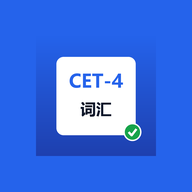
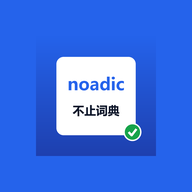
项目改名 CET-4 词汇引擎 → noadic（not only a dictionary / 不止词典）
品牌：包名 com.noadic.app、存储键 noadic.v1、SW 缓存 noadic-v1、图标字标重画（小尺寸改用字母 n 标，32px 下字标会糊）、SVG 与浅色主题统一、apple-touch-icon 指回 PNG（iOS 不认 SVG）。
备份文件仍认旧 app 标识 cet4-engine；存储键不做旧键迁移（改名前未正式使用，不留永不执行的搬运代码）。
工具链：_tools/rename-sweep.ps1 有序映射表；联接路径 D:cet4-build → D:noadic-build（含 git 本地 sslCAInfo/credential.helper 与 android/gradle.properties）；测试新增 Y 段 10 条，共 221 条。

Changed region(s): [[0.3438, 0.375, 0.6562, 0.5], [0.375, 0.5312, 0.625, 0.625]]

diff --git a/www/js/store.js b/www/js/store.js
@@ -3,8 +3,12 @@
  * 纯本地离线：无服务器、无账号、无网络请求（AI 增强为用户主动触发）
  * ========================================================================= */
 const Store = (() => {
-  const KEY = "cet4.engine.v1";
-  const UNDO_KEY = "cet4.engine.undo";
+  const KEY = "noadic.v1";
+  const UNDO_KEY = "noadic.undo";
+  /* 备份文件的应用标识：改名（CET-4 词汇引擎 → noadic）前导出的 json 照样认得进来。
+   * 存储键本身没有做旧键迁移 —— 改名时还没有正式使用过任何数据，留一段永远不会跑的
+   * 搬运代码只是负担。 */
+  const APP_IDS = ["noadic", "cet4-engine"];
 
   const DEFAULT_SETTINGS = {
     daily: 20,
@@ -437,8 +441,12 @@ const Store = (() => {
   }
 
   /* ---------- 导入导出 ---------- */
+  /** 是不是本应用的备份文件（而不是随手抓的 JSON）。老名字的备份照样认。 */
+  function isBackup(obj) {
+    return !!obj && APP_IDS.indexOf(obj.app) >= 0 && Array.isArray(obj.words);
+  }
   function exportJSON() {
-    return JSON.stringify({ app: "cet4-engine", version: 1, exportedAt: new Date().toISOString(), settings: state.settings, words: state.words }, null, 2);
+    return JSON.stringify({ app: "noadic", version: 1, exportedAt: new Date().toISOString(), settings: state.settings, words: state.words }, null, 2);
   }
   function importJSON(text) {
     const p = JSON.parse(text);
@@ -468,7 +476,7 @@ const Store = (() => {
     load, save, rebuild, indexContext, byId, stats, units, unitStats, unitKey, wordsOf, unitOrder, seed, backfill, plan, addAll, commitPlan,
     unitFlags, blockFlags, blockStats, blocks, blockKey, inBlock, wordsOfBlock, resetBlock,
     currentUnit, currentBlock, syncCleared, allCleared, inUnit, gateMet, unclear, resetUnit, labelOrder,
-    snapshot, undo, canUndo, update, remove, scopeWords, scopeStats, removeScope, inScope, setSetting, exportJSON, importJSON, wipe, usage,
+    snapshot, undo, canUndo, update, remove, scopeWords, scopeStats, removeScope, inScope, setSetting, exportJSON, importJSON, isBackup, wipe, usage,
     DEFAULT_SETTINGS,
   };
 })();

diff --git a/www/index.html b/www/index.html
@@ -8,21 +8,22 @@
 <meta name="mobile-web-app-capable" content="yes">
 <meta name="apple-mobile-web-app-capable" content="yes">
 <meta name="apple-mobile-web-app-status-bar-style" content="default">
-<meta name="apple-mobile-web-app-title" content="CET-4 词汇">
+<meta name="apple-mobile-web-app-title" content="noadic">
 <meta name="format-detection" content="telephone=no">
-<title>CET-4 词汇引擎 · 录入 / 考核 / 错题闭环</title>
+<title>noadic · 录入 / 考核 / 错题闭环</title>
 <link rel="manifest" href="manifest.webmanifest">
 <link rel="icon" href="icon.svg" type="image/svg+xml">
-<link rel="apple-touch-icon" href="icon.svg">
+<link rel="alternate icon" href="favicon-32.png">
+<link rel="apple-touch-icon" href="apple-touch-icon.png"><!-- iOS 只认 PNG，指 SVG 是无效的 -->
 <link rel="stylesheet" href="css/app.css">
 </head>
 <body>
 
 <header class="topbar">
   <div class="brand">
-    <span class="brand-mark">CET-4</span>
+    <span class="brand-mark">noadic</span>
     <div class="brand-txt">
-      <strong>词汇引擎</strong>
+      <strong>不止词典</strong>
       <small id="lib-summary">词库加载中…</small>
     </div>
   </div>

diff --git a/www/js/app.js b/www/js/app.js
@@ -108,7 +108,7 @@ const app = (() => {
       if (/\.json$/i.test(f.name)) {
         const txt = await f.text();
         const head = JSON.parse(txt.slice(0, 4000));
-        if (head && head.app === "cet4-engine") {
+        if (Store.isBackup(head)) {          // 认 app 字段，改名前的旧备份（cet4-engine）也收
           const r = Store.importJSON(txt);
           UI.renderProgress(); UI.renderLibrary(); UI.renderScope();
           return UI.toast(`备份已合并导入：新增 ${r.added}、合并 ${r.merged}、重复 ${r.dup}`);
@@ -470,7 +470,7 @@ const app = (() => {
       const blob = new Blob([Store.exportJSON()], { type: "application/json" });
       const a = document.createElement("a");
       a.href = URL.createObjectURL(blob);
-      a.download = `cet4-词库备份-${new Date().toISOString().slice(0, 10)}.json`;
+      a.download = `noadic-备份-${new Date().toISOString().slice(0, 10)}.json`;
       a.click(); setTimeout(() => URL.revokeObjectURL(a.href), 4000);
     };
     $("#btn-import").onchange = onFile;

diff --git a/www/js/ai.js b/www/js/ai.js
@@ -9,7 +9,7 @@ const AI = (() => {
   const available = () => !!(cfg().baseURL && cfg().baseURL.trim() && cfg().key && cfg().key.trim());
 
   const SPEC = [
-    "你是 CET-4 词汇录入引擎（Mode 1）。必须且仅能输出纯 JSON 字符串，禁止 Markdown 代码块、禁止任何解释文字。",
+    "你是 noadic录入引擎（Mode 1）。必须且仅能输出纯 JSON 字符串，禁止 Markdown 代码块、禁止任何解释文字。",
     "规则：1) 过滤 a/the/is/at 等极简词，但保留其作为核心短语一部分的词；2) 单词统一还原英文原形(Lemma)；",
     "3) 每个词补齐 英式IPA、CET-4 核心考点释义、常见搭配、1 个四级难度例句（含译文）；",
     "4) 若用户已给出中文释义，以用户释义为准，只做补全不得改写；5) 若没有需要收录的词，words 返回空数组且 has_words 为 false。",

diff --git a/www/css/app.css b/www/css/app.css
@@ -31,8 +31,10 @@ a { color: var(--acc); }
 }
 .brand { display: flex; align-items: center; gap: 10px; min-width: 0; }
 .brand-mark {
-  font: 700 11px/1 ui-monospace, monospace; letter-spacing: .03em; color: #fff;
-  background: linear-gradient(135deg, var(--acc), #4f46e5); padding: 7px 8px; border-radius: 9px; white-space: nowrap;
+  /* 字标从 "CET-4"（5 字符，等宽好看）换成 "noadic"（小写单词），
+     等宽字体里的小写单词很怪，改用正文字重强调 */
+  font: 800 12.5px/1 system-ui, -apple-system, "Segoe UI", sans-serif; letter-spacing: .01em; color: #fff;
+  background: linear-gradient(135deg, var(--acc), #4f46e5); padding: 6px 9px; border-radius: 9px; white-space: nowrap;
 }
 .brand-txt { display: flex; flex-direction: column; min-width: 0; }
 .brand-txt strong { font-size: 14.5px; }

diff --git a/www/sw.js b/www/sw.js
@@ -1,6 +1,6 @@
 /* sw.js — 手机/离线挂载点（仅在 http(s) 下生效；file:// 打开时不注册）
  * 更新版本改 APP_VERSION，老缓存会被清掉。 */
-const APP_VERSION = "cet4-engine-v2";   // 批量删除（整课/整单元）+ 词库工具栏改动：抬版本清老缓存
+const APP_VERSION = "noadic-v1";   // 改名 noadic + 三级批量删除：抬版本清老缓存
 const SHELL = [
   "./", "./index.html", "./css/app.css", "./manifest.webmanifest", "./icon.svg",
   "./js/seed-words.js", "./js/lexicon.js", "./js/dict-extra.js", "./js/store.js",

diff --git a/_tools/make-icons.py b/_tools/make-icons.py
@@ -32,7 +32,9 @@ def rounded(draw, box, r, fill):
     draw.rounded_rectangle([x0, y0, x1, y1], radius=r, fill=fill)
 
 
-def icon(size=1024):
+def icon(size=1024, mark=False):
+    """mark=True：只画字母标 "n"。16–48px 的 favicon 上，缩小的字标会糊成一团
+    （实测 32px 完全不可读），单字母在那个尺寸才站得住。"""
     img = Image.new("RGB", (size, size), ACCENT)
     d = ImageDraw.Draw(img)
     # 纵向渐变底（干净、无条纹）
@@ -42,19 +44,21 @@ def icon(size=1024):
         d.line([(0, y), (size, y)], fill=col)
     d = ImageDraw.Draw(img)
 
-    m = size * 0.17                      # 安全边距（自适应图标会被裁切）
+    m = size * 0.17 if not mark else size * 0.13   # 安全边距（自适应图标会被裁切）
     card = (m, m * 1.02, size - m, size - m * 1.02)
     rounded(d, card, int(size * 0.06), WHITE)
 
-    # 卡片上的文字：CET-4 + 词汇
-    f_big = font(int(size * 0.155))
-    f_sm = font(int(size * 0.13))
-    d.text(((card[0] + card[2]) / 2, card[1] + (card[3] - card[1]) * 0.30), "CET-4",
-           font=f_big, fill=ACCENT, anchor="mm")
-    d.text(((card[0] + card[2]) / 2, card[1] + (card[3] - card[1]) * 0.66), "词汇",
-           font=f_sm, fill=INK, anchor="mm")
+    if mark:
+        d.text(((card[0] + card[2]) / 2, (card[1] + card[3]) / 2 - size * 0.01), "n",
+               font=font(int(size * 0.52)), fill=ACCENT, anchor="mm")
+    else:
+        # 卡片上的字标：noadic（大字）+ 不止词典（小字）
+        d.text(((card[0] + card[2]) / 2, card[1] + (card[3] - card[1]) * 0.34), "noadic",
+               font=font(int(size * 0.142)), fill=ACCENT, anchor="mm")
+        d.text(((card[0] + card[2]) / 2, card[1] + (card[3] - card[1]) * 0.68), "不止词典",
+               font=font(int(size * 0.098)), fill=INK, anchor="mm")
     # 右下角绿色完成标记
-    r = size * 0.075
+    r = size * (0.095 if mark else 0.075)
     cx, cy = size - m - r * 0.35, card[3] - r * 0.35
     d.ellipse([cx - r, cy - r, cx + r, cy + r], fill=GREEN, outline=WHITE, width=int(size * 0.012))
     d.line([(cx - r * 0.42, cy), (cx - r * 0.08, cy + r * 0.36), (cx + r * 0.45, cy - r * 0.34)],
@@ -73,19 +77,21 @@ def splash(size=2732):
 os.makedirs(os.path.join(ROOT, "assets"), exist_ok=True)
 os.makedirs(os.path.join(ROOT, "www"), exist_ok=True)
 
-icon_1024 = icon(1024)
-icon_1024.save(os.path.join(ROOT, "assets", "icon.png"))
+big = icon(1024)
+big.save(os.path.join(ROOT, "assets", "icon.png"))          # APK 图标源图（CI 由它生成 mipmap）
 splash(2732).save(os.path.join(ROOT, "assets", "splash.png"))
-for s, name in [(512, "icon-512.png"), (192, "icon-192.png"), (180, "apple-touch-icon.png"), (32, "favicon-32.png")]:
-    icon_1024.resize((s, s), Image.LANCZOS).save(os.path.join(ROOT, "www", name))
+# 每个尺寸单独绘制，而不是从 1024 缩：缩放会把字边糊掉
+for s, name in [(512, "icon-512.png"), (192, "icon-192.png"), (180, "apple-touch-icon.png")]:
+    icon(s).save(os.path.join(ROOT, "www", name))
+icon(32, mark=True).save(os.path.join(ROOT, "www", "favicon-32.png"))   # 小尺寸用字母标
 
 # maskable 版：内容缩到 60%，四周留安全区
 mask = Image.new("RGB", (1024, 1024), ACCENT)
-inner = icon_1024.resize((640, 640), Image.LANCZOS)
+inner = big.resize((640, 640), Image.LANCZOS)
 mask.paste(inner, (192, 192))
 mask.resize((512, 512), Image.LANCZOS).save(os.path.join(ROOT, "www", "icon-maskable-512.png"))
 mask.resize((192, 192), Image.LANCZOS).save(os.path.join(ROOT, "www", "icon-maskable-192.png"))
-icon_1024.resize((512, 512), Image.LANCZOS).save(os.path.join(ROOT, "www", "icon-512.png"))
+# （旧版这里还有一行从 1024 缩放写 icon-512.png 的残留，已被上面的逐尺寸绘制取代）
 
 print("assets:", sorted(os.listdir(os.path.join(ROOT, "assets"))))
 print("www pngs:", sorted(f for f in os.listdir(os.path.join(ROOT, "www")) if f.endswith(".png")))

diff --git a/README.md b/README.md
@@ -1,4 +1,4 @@
-# CET-4 词汇引擎（浅色 App 界面 · 纯本地离线 · 可封 APK）
+# noadic（浅色 App 界面 · 纯本地离线 · 可封 APK）
 
 零构建、零依赖、零服务器：双击 `www/index.html` 即可运行，所有数据存在浏览器 `localStorage`。白色主题、底部导航栏、设置以底部面板呈现，按手机 App 的形态设计；同一套代码可用 Capacitor 封成 APK（见 `BUILD-APK.md`）。
 
@@ -22,7 +22,7 @@
 │       ├── ui.js               渲染层
 │       └── app.js              装配与事件流
 ├── assets/icon.png, splash.png   APK 图标与开屏图源图（1024 / 2732）
-├── capacitor.config.json   appId com.cet4.vocabengine、webDir www、白色启动背景
+├── capacitor.config.json   appId com.noadic.app、webDir www、白色启动背景
 ├── package.json            Capacitor 依赖与脚本
 ├── build-apk.ps1           本机一键出包（先检查 JDK/SDK，缺什么直说缺什么）
 ├── .github/workflows/android.yml   云构建：push 即出 app-debug.apk 产物
@@ -226,13 +226,13 @@ Git 装在 `.tooling\git`，**没有写进系统 PATH、不需要管理员权限
 这台机器直连 `github.com:443` 是被拒的，必须走本地代理；而 git 有两个坑：
 
 1. **git 不读 Windows 系统代理**（IE/注册表里那个 `127.0.0.1:10808` 它不认），得显式配 `http.proxy`；
-2. **openssl 后端的 CA 证书包路径含中文会被毁码**（`新建文件夹` → `??½??ļ???`），报 `error adding trust anchors`。解法是把 `http.sslCAInfo` 指到 ASCII 联接路径 `D:/cet4-build/...`。
+2. **openssl 后端的 CA 证书包路径含中文会被毁码**（`新建文件夹` → `??½??ļ???`），报 `error adding trust anchors`。解法是把 `http.sslCAInfo` 指到 ASCII 联接路径 `D:/noadic-build/...`。
 
 两条已经写进本仓库的 `.git/config`（local，不影响其它项目），实测 `git ls-remote https://github.com/git/git` 正常返回。**前提是代理客户端在线**（脚本会先探测 `127.0.0.1:10808`）。
 
 ### 你要做的三步
 
-1. **建空仓库**：GitHub 网页 → New repository → 名字随意（建议 `cet4-vocab`）→ **公开/私有都行**（本仓库只有代码和种子词表，你的学习记录、错题本全在设备 localStorage 里，不会进仓库）→ **不要**勾选 "Add a README" / ".gitignore" / "license"（会让首次推送冲突）。记下 `用户名/仓库名`。
+1. **建空仓库**：GitHub 网页 → New repository → 名字随意（建议 `noadic`）→ **公开/私有都行**（本仓库只有代码和种子词表，你的学习记录、错题本全在设备 localStorage 里，不会进仓库）→ **不要**勾选 "Add a README" / ".gitignore" / "license"（会让首次推送冲突）。记下 `用户名/仓库名`。
 2. **建 token**：Settings → Developer settings → **Fine-grained tokens** → Generate new token
    - Repository access：Only select repositories → 选刚才那个仓库（或直接 All repositories）
    - Permissions → Contents：**Read and write**
@@ -243,12 +243,12 @@ Git 装在 `.tooling\git`，**没有写进系统 PATH、不需要管理员权限
 
 ```powershell
 cd "D:\Users\DawnFish\Desktop\新建文件夹"
-.\connect-github.ps1 -Repo 你的用户名/cet4-vocab
+.\connect-github.ps1 -Repo 你的用户名/noadic
 ```
 
 脚本会提示粘 token（**不回显**），只写进 `.tooling\git-credentials`（`.gitignore` 已排除，不会进仓库），然后加 `origin` 并推 `main`。
 
-推成功后打开 **`https://github.com/你的用户名/cet4-vocab/actions`** —— 仓库里现成的 workflow 会自动构建（约 90 秒），构建完**直接发布到 Release**，不用再去 Artifacts 里翻 zip。
+推成功后打开 **`https://github.com/你的用户名/noadic/actions`** —— 仓库里现成的 workflow 会自动构建（约 90 秒），构建完**直接发布到 Release**，不用再去 Artifacts 里翻 zip。
 
 ### APK 从哪下（两条都自动）
 
@@ -256,13 +256,13 @@ cd "D:\Users\DawnFish\Desktop\新建文件夹"
 | --- | --- | --- |
 | **Releases → `latest-debug`** | `app-debug.apk` | 每次 `git push` 后**自动覆盖**，永远指向最新构建；标记为预发布，因为它是 debug 签名 |
 | **Releases → 你打的 `v*` 标签** | `app-debug.apk` | 冻结的某个版本，标记为正式（会占住仓库页的 "Latest" 按钮） |
-| Actions → Artifacts → `cet4-vocab-debug-apk` | 同上 | 每次 run 的原始产物留档，需要历史某次构建时才用 |
+| Actions → Artifacts → `noadic-debug-apk` | 同上 | 每次 run 的原始产物留档，需要历史某次构建时才用 |
 
 日常装机就用第一个，直链（公开库，不用登录也能下）：
 
 ```
-https://github.com/你的用户名/cet4-vocab/releases/tag/latest-debug                 ← 永远最新构建
-https://github.com/你的用户名/cet4-vocab/releases/download/latest-debug/app-debug.apk
+https://github.com/你的用户名/noadic/releases/tag/latest-debug                 ← 永远最新构建
+https://github.com/你的用户名/noadic/releases/download/latest-debug/app-debug.apk
 ```
 
 > `/releases/latest` 这个"最新正式版"地址**只在存在非预发布的版本 Release 时才有效**：只有 `latest-debug`（预发布）时它会返回 404（实测）。等你按下面打第一个 `v*` 标签，它才指向你的最新版。
@@ -270,7 +270,7 @@ https://github.com/你的用户名/cet4-vocab/releases/download/latest-debug/app
 发一个正式版本，只要打个 `v` 开头的标签再推上去，CI 会顺带把 Release 建好：
 
 ```powershell
-.\git.ps1 tag -a v1.0 -m "CET-4 词汇引擎 v1.0"
+.\git.ps1 tag -a v1.0 -m "noadic v1.0"
 .\git.ps1 push origin v1.0
 ```
 
@@ -283,7 +283,7 @@ https://github.com/你的用户名/cet4-vocab/releases/download/latest-debug/app
 Gitee 走同一代理**当前也通**（`git ls-remote https://gitee.com/mirrors/git.git` 实测成功），国内速度更稳，适合纯备份：
 
 ```powershell
-.\git.ps1 remote add gitee https://gitee.com/你的用户名/cet4-vocab.git
+.\git.ps1 remote add gitee https://gitee.com/你的用户名/noadic.git
 .\git.ps1 push -u gitee main
 ```
 

diff --git a/BUILD-APK.md b/BUILD-APK.md
@@ -37,8 +37,8 @@
 4. 约 **1–2 分钟**后 Job 结束，APK 会**自动发布到仓库的 Releases**：
    - `latest-debug`（预发布）＝ 每次 push 自动覆盖的最新包，日常装这个；
    - 你打的 `v*` 标签 ＝ 冻结版本；
-   - Actions 里的 Artifacts `cet4-vocab-debug-apk` 仍然保留，作为每次 run 的原始留档。
-5. 直接下载：`https://github.com/你的用户名/cet4-vocab/releases/download/latest-debug/app-debug.apk`（公开库不用登录）→ 传到手机 → 点击安装 → 允许「安装未知来源应用」。debug 包无需签名、无需上架。
+   - Actions 里的 Artifacts `noadic-debug-apk` 仍然保留，作为每次 run 的原始留档。
+5. 直接下载：`https://github.com/你的用户名/noadic/releases/download/latest-debug/app-debug.apk`（公开库不用登录）→ 传到手机 → 点击安装 → 允许「安装未知来源应用」。debug 包无需签名、无需上架。
 
 以后改完代码只要重新 push，APK 自动重新构建**并更新到 Release**。发正式版：`.\git.ps1 tag -a v1.0 -m "v1.0"` 然后 `.\git.ps1 push origin v1.0`。
 
@@ -63,7 +63,7 @@ powershell -NoProfile -ExecutionPolicy Bypass -File .\_tools\toolchain-and-build
 | 6 | 图标/开屏：先试 `@capacitor/assets`，失败则用 `_tools\android-res.py`（Pillow）直接写 `res/mipmap-*` | — |
 | 7 | `gradlew assembleDebug`（Gradle 缓存放 `.tooling\gradle`） | ~600 MB |
 
-产物复制到 **`dist\cet4-vocab-debug.apk`**，全程日志在 **`.tooling\build.log`**（出错先看它）。
+产物复制到 **`dist\noadic-debug.apk`**，全程日志在 **`.tooling\build.log`**（出错先看它）。
 
 > 前提：能访问 `api.adoptium.net`、`dl.google.com`、`registry.npmjs.org`。这台机器设了本地代理 `127.0.0.1:10808`，且**代理客户端离线时 TLS 会直接断**——自己开终端跑之前，先确认代理在线（必要时 `$env:HTTPS_PROXY="http://127.0.0.1:10808"`）。
 
@@ -115,6 +115,6 @@ python -m http.server 8080 -d www
 ## 想上正式签名包
 
 ```powershell
-keytool -genkey -v -keystore cet4.keystore -alias cet4 -keyalg RSA -keysize 2048 -validity 10000
+keytool -genkey -v -keystore noadic.keystore -alias cet4 -keyalg RSA -keysize 2048 -validity 10000
 ```
 然后在 `android/` 里配置签名（Capacitor 生成工程后可用 Android Studio 一键 Sign APK），再 `.\build-apk.ps1 -Release`。个人自用不需要这一步。
